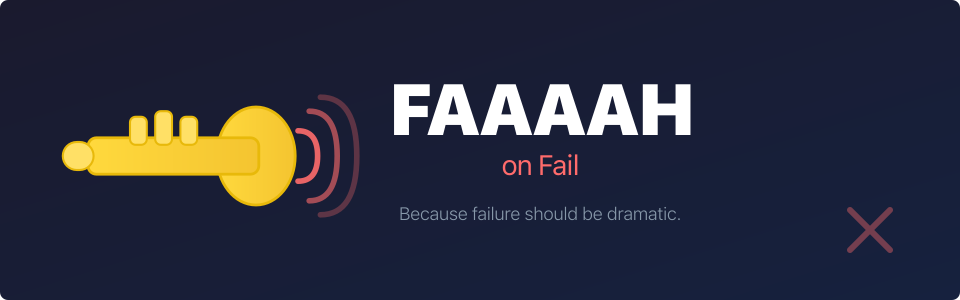
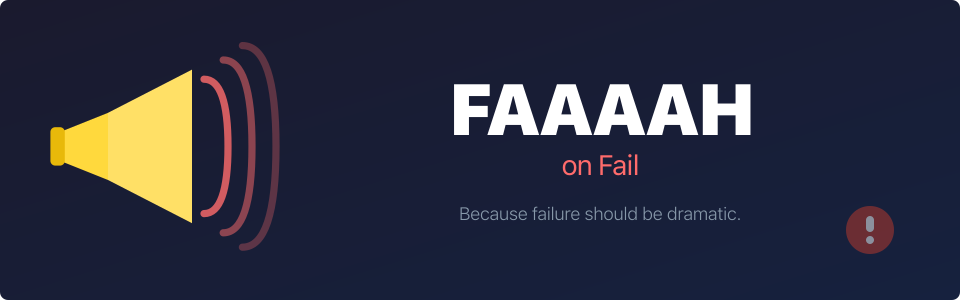
feat: v.4.1 release

diff --git a/CHANGELOG.md b/CHANGELOG.md
@@ -1,5 +1,9 @@
 # Changelog
 
+## 0.4.1
+
+- New extension icon and banner
+
 ## 0.4.0
 
 - Smoother FAAAAH sound
